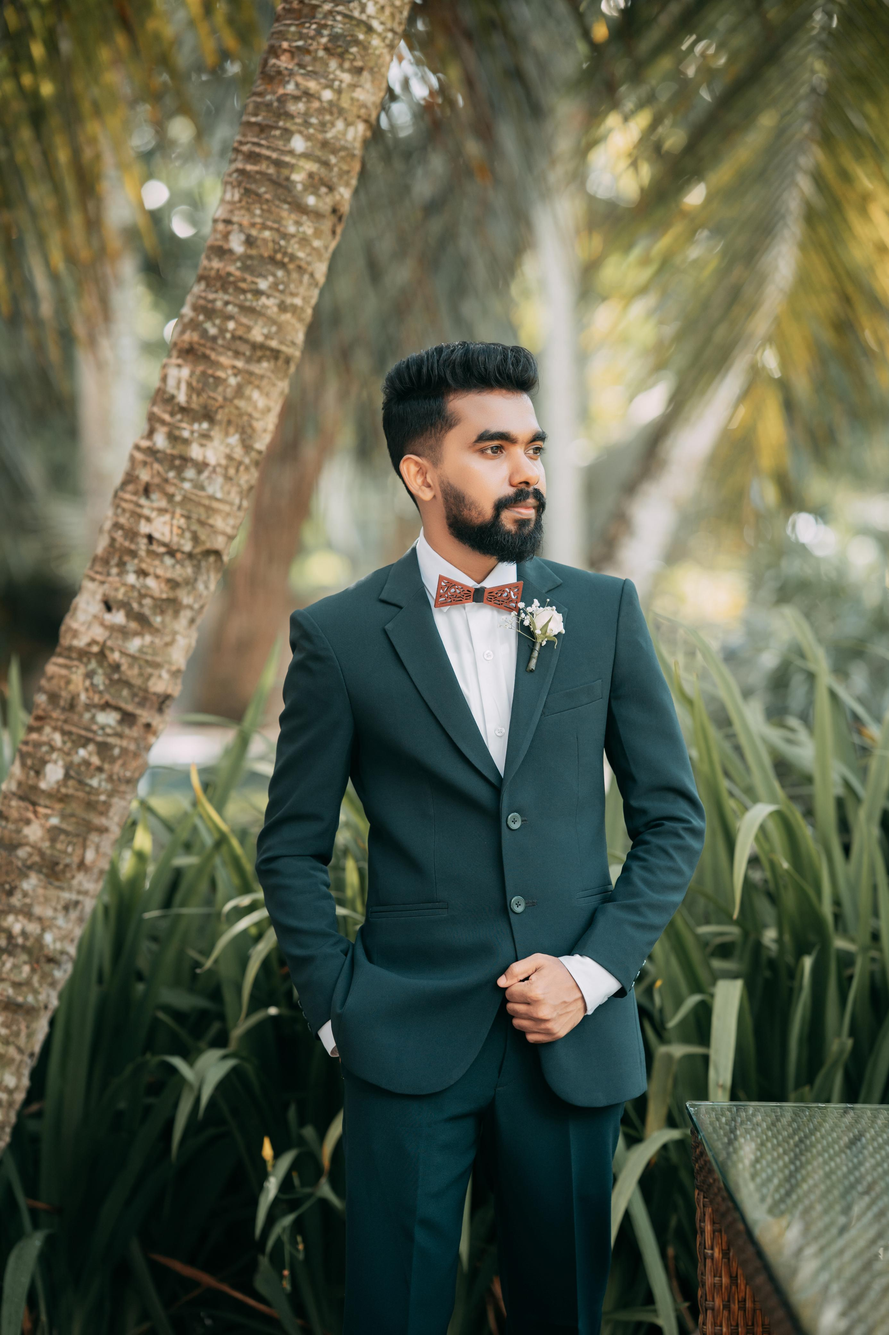
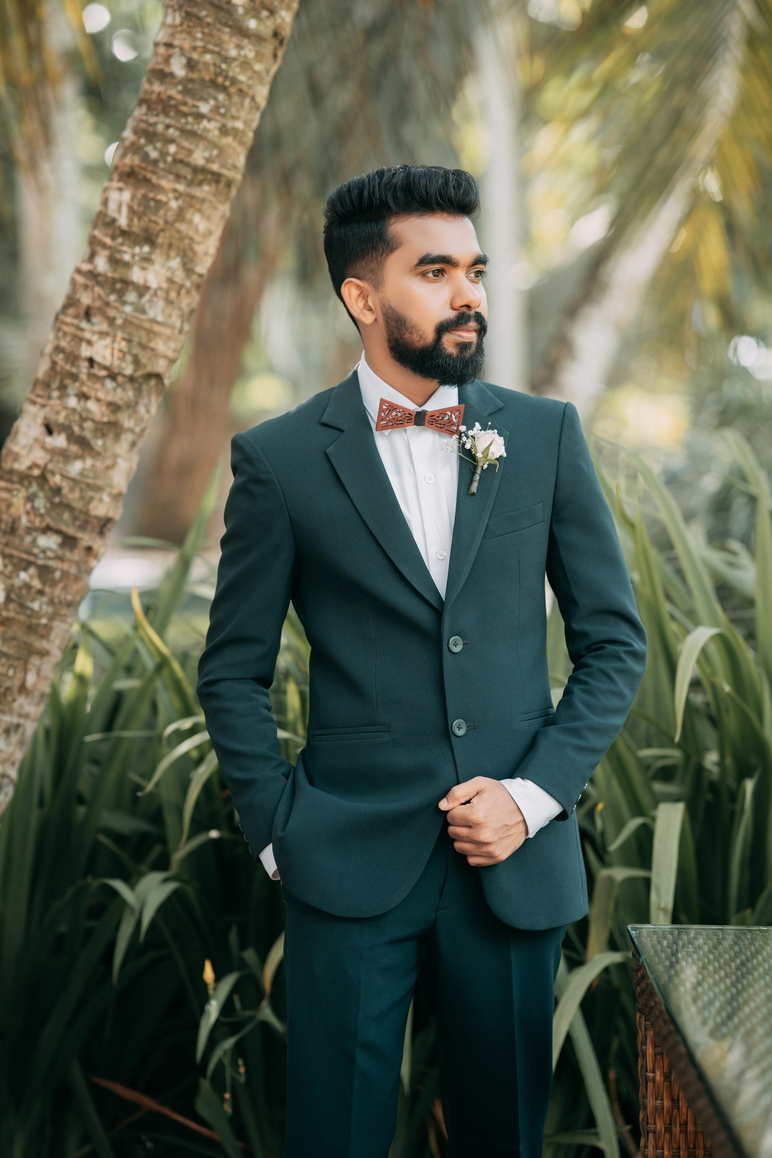
refactor: crop excess headroom in groom portrait to lift and balance Nirmal's framing

diff --git a/index.html b/index.html
@@ -581,8 +581,8 @@
 
         <!-- Groom Card -->
         <div class="person-card reveal-right">
-          <div class="person-avatar-wrap lightbox-trigger" data-lightbox="img/nirmal.jpeg" data-caption="Nirmal — The Groom" title="Tap to view portrait">
-            <img src="img/nirmal.jpeg" alt="Nirmal - The Groom" class="person-avatar-img">
+          <div class="person-avatar-wrap lightbox-trigger" data-lightbox="img/nirmal.jpeg?v=2" data-caption="Nirmal — The Groom" title="Tap to view portrait">
+            <img src="img/nirmal.jpeg?v=2" alt="Nirmal - The Groom" class="person-avatar-img">
             <span class="photo-zoom-hint" aria-hidden="true">
               <svg width="14" height="14" viewBox="0 0 24 24" fill="none" stroke="currentColor" stroke-width="2"><circle cx="11" cy="11" r="8"></circle><line x1="21" y1="21" x2="16.65" y2="16.65"></line><line x1="11" y1="8" x2="11" y2="14"></line><line x1="8" y1="11" x2="14" y2="11"></line></svg>
             </span>
